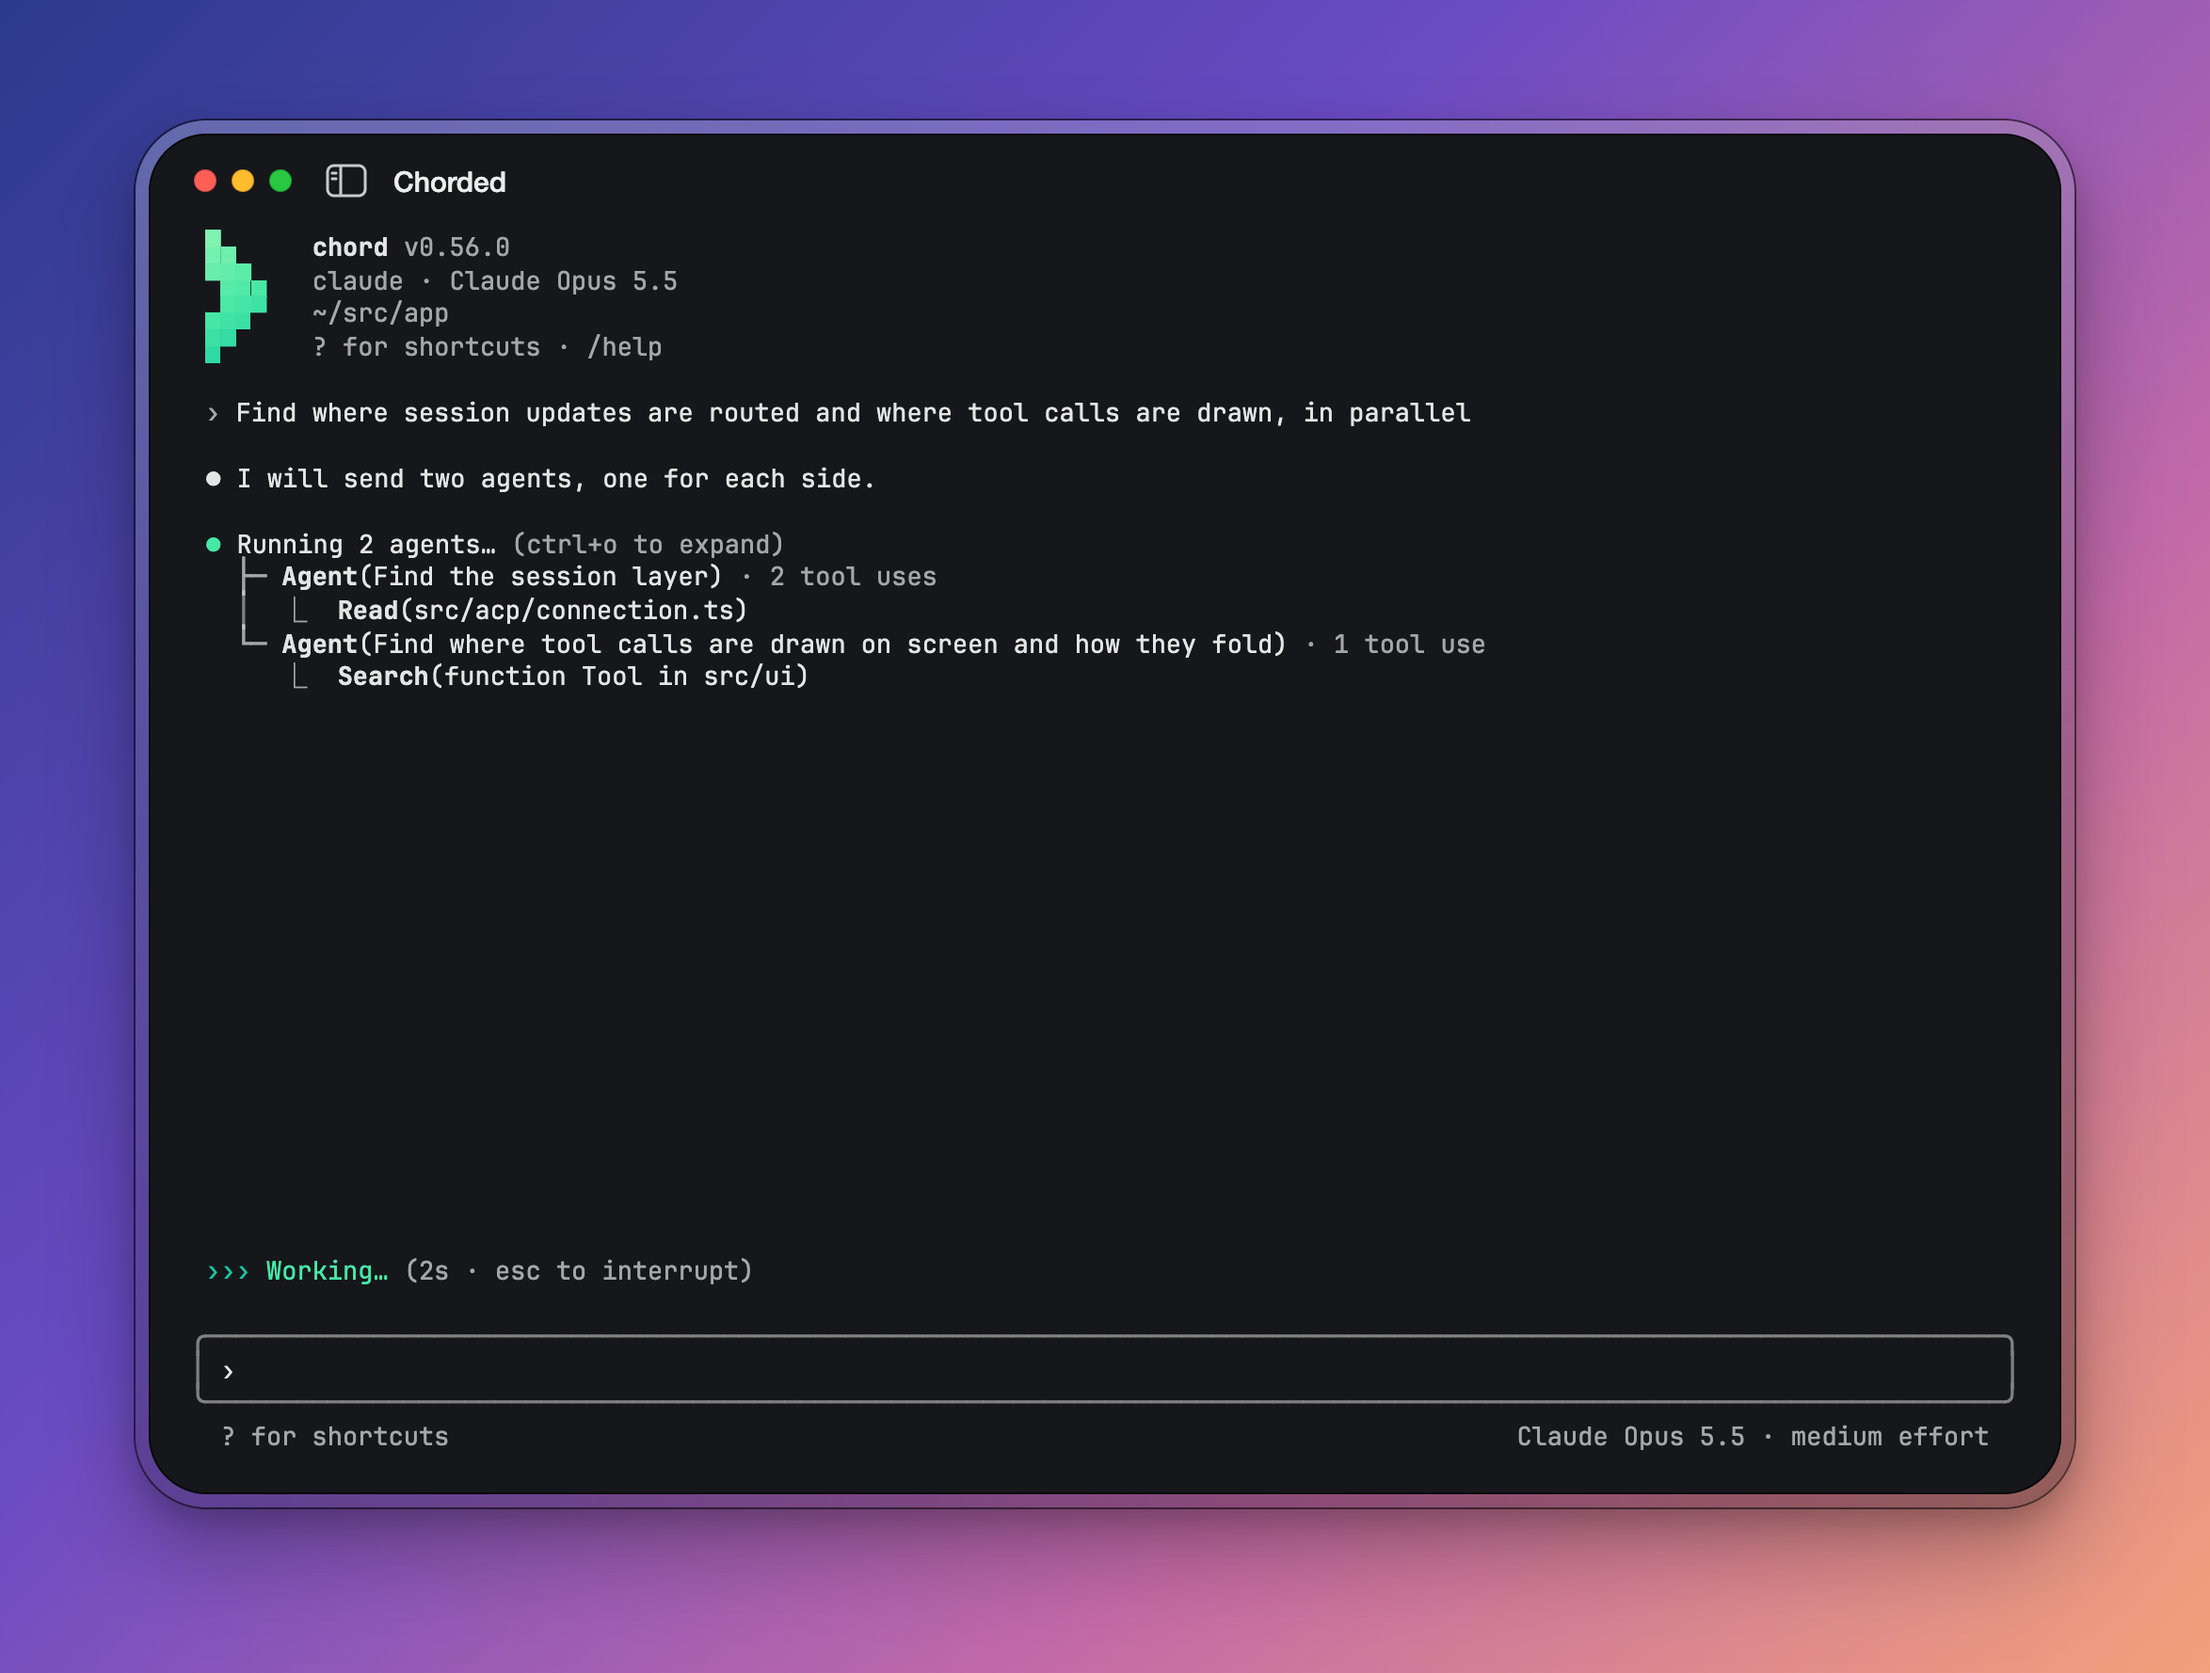
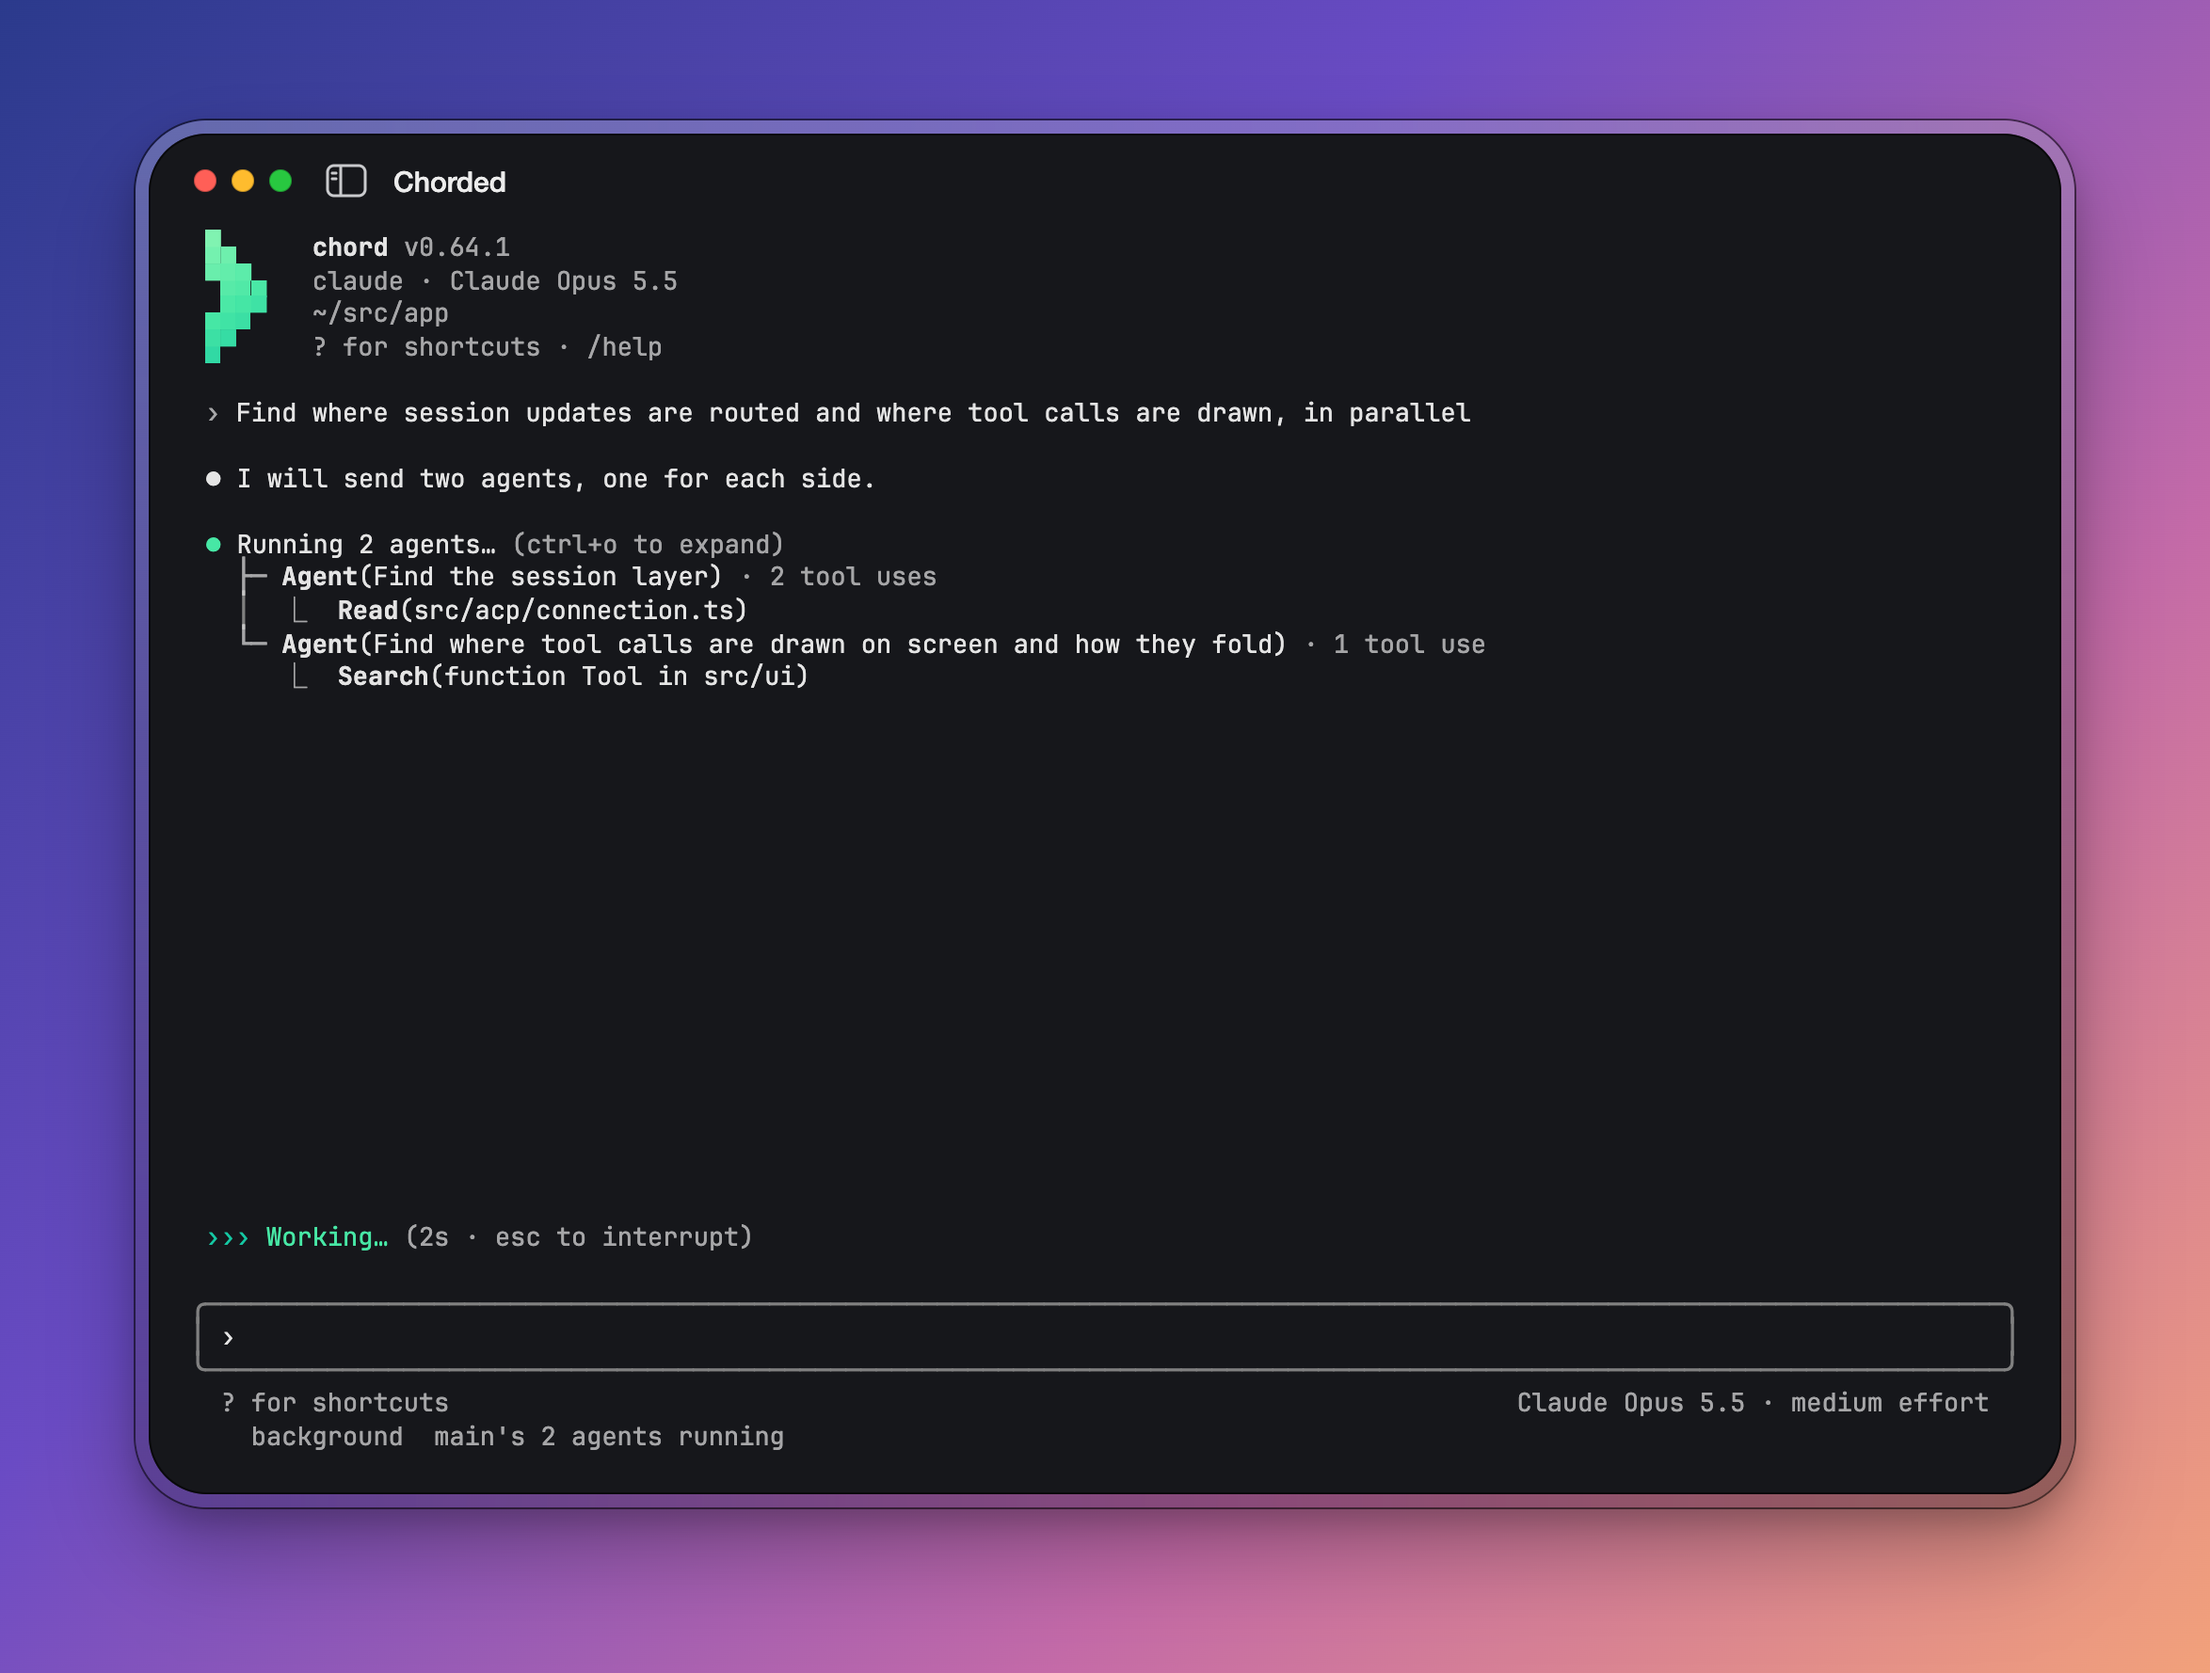
docs(images): retake the screenshots on today's screen
The script started chord with no agent named, which has opened the agent
picker since CHD-532, so it names the agent its settings give the fake.
proposal.png came out the same (CHD-560).

Changed region(s): [[0.0933, 0.7115, 0.9016, 0.8661], [0.684, 0.8352, 0.9016, 0.8661]]

diff --git a/scripts/dev/screenshots.ts b/scripts/dev/screenshots.ts
@@ -253,6 +253,8 @@ async function capture(shot: Shot): Promise<string> {
       '--define',
       'process.env.NODE_ENV:"production"',
       join(ROOT, 'src', 'main.tsx'),
+      // Named, as an unnamed start opens the agent picker first (CHD-532).
+      'claude',
       '-C',
       join(home, 'src', 'app'),
     ];
